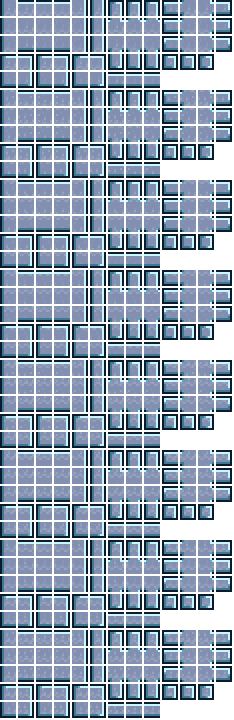
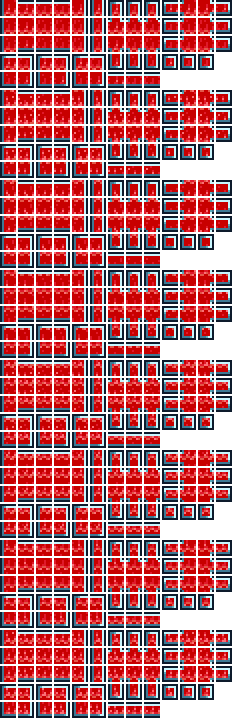
walls

diff --git a/ModdedWaterfalls.cs b/ModdedWaterfalls.cs
@@ -9,6 +9,7 @@ using System.Linq;
 using System.Reflection;
 using Terraria;
 using Terraria.GameContent;
+using Terraria.GameContent.Creative;
 using Terraria.Graphics.Capture;
 using Terraria.Graphics.Shaders;
 using Terraria.ID;
@@ -21,16 +22,29 @@ namespace ModdedWaterfalls {
 		static MethodInfo submitLoadedContent;
 		internal static Dictionary<int, WaterfallBlock> blocksByStyle = new();
 		internal static Dictionary<int, WaterfallItem> itemsByStyle = new();
+		internal static Dictionary<int, WaterfallWall> wallsByStyle = new();
+		internal static Dictionary<int, WaterfallWallItem> wallItemsByStyle = new();
 		static MiscShaderData shader;
 		public static Asset<Texture2D> blockTexture;
 		public static Asset<Texture2D> itemTexture;
+
+		public static Asset<Texture2D> wallTexture;
+		public static Asset<Texture2D> wallItemTexture;
 		public static Dictionary<CaptureBiome, string> captureBiomeNames = new();
 		public override void Unload() {
 			blocksByStyle = null;
 			itemsByStyle = null;
-			shader = null;
+
+			wallsByStyle = null;
+			wallItemsByStyle = null;
+
 			blockTexture = null;
 			itemTexture = null;
+
+			wallTexture = null;
+			wallItemTexture = null;
+
+			shader = null;
 			captureBiomeNames = null;
 		}
 		public override void Load() {
@@ -54,8 +68,10 @@ namespace ModdedWaterfalls {
 			GameShaders.Misc["WaterfallGenerator"] = shader;
 			blockTexture = Assets.Request<Texture2D>("Waterfall_Block_Map");
 			itemTexture = Assets.Request<Texture2D>("Waterfall_Item_Map");
+			wallTexture = Assets.Request<Texture2D>("Waterfall_Wall_Map");
+			wallItemTexture = Assets.Request<Texture2D>("Waterfall_Wall_Item_Map");
 		}
-		public static Asset<Texture2D> GenerateTexture(string name, Texture2D baseTexture, int frames, Asset<Texture2D> palette) {
+		public static Asset<Texture2D> GenerateTexture(string name, Texture2D baseTexture, Asset<Texture2D> palette) {
 			Asset<Texture2D> asset = (Asset<Texture2D>)assetCtor.Invoke(new object[] { name });
 			RenderTarget2D target = new(Main.instance.GraphicsDevice, baseTexture.Width, baseTexture.Height);
 			shader.UseImage1(palette);
@@ -94,10 +110,17 @@ namespace ModdedWaterfalls {
 	}
 	public class ModWaterfallSystem : ModSystem {
 		public static RecipeGroup nonVanillaWaterfalls;
+		public static RecipeGroup nonVanillaWaterWalls;
 		public override void AddRecipeGroups() {
 			RecipeGroup.RegisterGroup("NonVanillaWaterfalls",
 				nonVanillaWaterfalls = new RecipeGroup(
 					() => Language.GetOrRegister($"Mods.{nameof(ModdedWaterfalls)}.WaterfallRecipeGroup").Value,
+					ModdedWaterfalls.itemsByStyle.Values.First().Type
+				)
+			);
+			RecipeGroup.RegisterGroup("NonVanillaWaterWalls",
+				nonVanillaWaterWalls = new RecipeGroup(
+					() => Language.GetOrRegister($"Mods.{nameof(ModdedWaterfalls)}.WaterWallRecipeGroup").Value,
 					ModdedWaterfalls.itemsByStyle.Values.First().Type
 				)
 			);
@@ -106,9 +129,13 @@ namespace ModdedWaterfalls {
 			Recipe.Create(ItemID.WaterfallBlock)
 			.AddRecipeGroup(nonVanillaWaterfalls)
 			.Register();
+			Recipe.Create(ItemID.WaterfallWall)
+			.AddRecipeGroup(nonVanillaWaterWalls)
+			.Register();
 		}
 		public override void Unload() {
 			nonVanillaWaterfalls = null;
+			nonVanillaWaterWalls = null;
 		}
 	}
 	[Autoload(false)]
@@ -122,17 +149,19 @@ namespace ModdedWaterfalls {
 		}
 		public override void Load() {
 			Mod.AddContent(new WaterfallItem(style));
+			Mod.AddContent(new WaterfallWall(style));
 		}
 		public override void SetStaticDefaults() {
 			Main.tileSolid[Type] = true;
 			Main.tileBlockLight[Type] = true;
+			HitSound = SoundID.Shatter;
 			if (Main.dedServ) return;
-			TextureAssets.Tile[Type].Wait();
 			TextureAssets.Liquid[style].Wait();
 			Main.QueueMainThreadAction(GenerateTexture);
 		}
 		void GenerateTexture() {
-			TextureAssets.Tile[Type] = ModdedWaterfalls.GenerateTexture(Name, ModdedWaterfalls.blockTexture.Value, 8, TextureAssets.Liquid[style]);
+			ModdedWaterfalls.blockTexture.Wait();
+			TextureAssets.Tile[Type] = ModdedWaterfalls.GenerateTexture(Name, ModdedWaterfalls.blockTexture.Value, TextureAssets.Liquid[style]);
 		}
 		public override void AnimateIndividualTile(int type, int i, int j, ref int frameXOffset, ref int frameYOffset) {
 			frameYOffset = 90 * Main.tileFrame[TileID.Waterfall];
@@ -168,12 +197,12 @@ namespace ModdedWaterfalls {
 		}
 		public override void SetStaticDefaults() {
 			if (Main.dedServ) return;
-			TextureAssets.Item[Type].Wait();
 			TextureAssets.Liquid[style].Wait();
 			Main.QueueMainThreadAction(GenerateTexture);
 		}
 		void GenerateTexture() {
-			TextureAssets.Item[Type] = ModdedWaterfalls.GenerateTexture(Name, ModdedWaterfalls.itemTexture.Value, 1, TextureAssets.Liquid[style]);
+			ModdedWaterfalls.itemTexture.Wait();
+			TextureAssets.Item[Type] = ModdedWaterfalls.GenerateTexture(Name, ModdedWaterfalls.itemTexture.Value, TextureAssets.Liquid[style]);
 		}
 		public override void SetDefaults() {
 			Item.DefaultToPlaceableTile(ModdedWaterfalls.blocksByStyle[style].Type);
@@ -184,6 +213,15 @@ namespace ModdedWaterfalls {
 			.AddIngredient(ItemID.WaterfallBlock)
 			.AddCondition(Language.GetOrRegister($"Mods.{nameof(ModdedWaterfalls)}.RecipeCondition"), () => Main.waterStyle == style)
 			.Register();
+		}
+		public override void OnResearched(bool fullyResearched) {
+			if (CreativeItemSacrificesCatalog.Instance.SacrificeCountNeededByItemId.TryGetValue(ItemID.WaterfallBlock, out int needed)) {
+				ItemsSacrificedUnlocksTracker sacrificeTracker = Main.LocalPlayer.creativeTracker.ItemSacrifices;
+				if (sacrificeTracker.GetSacrificeCount(ItemID.WaterfallBlock) < needed) {
+					sacrificeTracker.SetSacrificeCountDirectly(ContentSamples.ItemPersistentIdsByNetIds[Item.netID], 0);
+					sacrificeTracker.RegisterItemSacrifice(ItemID.WaterfallBlock, 1);
+				}
+			}
 		}
 		/*bool lastShimmering = false;
 		public override void HoldItem(Player player) {
@@ -197,5 +235,86 @@ namespace ModdedWaterfalls {
 				lastShimmering = false;
 			}
 		}*/
+	}
+	[Autoload(false)]
+	public class WaterfallWall : ModWall {
+		public override string Texture => nameof(ModdedWaterfalls) + "/Waterfall_Wall_Map";
+		public override string Name => "Waterfall_Wall_Style_" + ModdedWaterfalls.GetStyleName(style);
+		readonly int style;
+		public WaterfallWall(int style) {
+			this.style = style;
+			ModdedWaterfalls.wallsByStyle.Add(style, this);
+		}
+		public override void Load() {
+			Mod.AddContent(new WaterfallWallItem(style));
+		}
+		public override void SetStaticDefaults() {
+			WallID.Sets.BlendType[Type] = Type;
+			Main.wallBlend[Type] = Type;
+			Main.wallHouse[Type] = true;
+			HitSound = SoundID.Shatter;
+			if (Main.dedServ) return;
+			TextureAssets.Liquid[style].Wait();
+			Main.QueueMainThreadAction(GenerateTexture);
+		}
+		void GenerateTexture() {
+			ModdedWaterfalls.wallTexture.Wait();
+			TextureAssets.Wall[Type] = ModdedWaterfalls.GenerateTexture(Name, ModdedWaterfalls.wallTexture.Value, TextureAssets.Liquid[style]);
+		}
+		public override void AnimateWall(ref byte frame, ref byte frameCounter) {
+			frame = Main.wallFrame[WallID.Waterfall];
+		}
+	}
+	[Autoload(false)]
+	public class WaterfallWallItem : ModItem {
+		protected override bool CloneNewInstances => true;
+		public override string Texture => nameof(ModdedWaterfalls) + "/Waterfall_Wall_Item_Map";
+		public override string Name => "Waterfall_Wall_Item_Style_" + ModdedWaterfalls.GetStyleName(style);
+		public override LocalizedText DisplayName => Language.GetOrRegister(
+			$"Mods.{nameof(ModdedWaterfalls)}.WaterfallWallItem_{ModdedWaterfalls.GetStyleName(style)}",
+			() => $"{ModdedWaterfalls.GetStyleName(style)} Waterfall Wall"
+		);
+		public override LocalizedText Tooltip => LocalizedText.Empty;
+		readonly int style;
+		public WaterfallWallItem(int style) {
+			this.style = style;
+			ModdedWaterfalls.wallItemsByStyle.Add(style, this);
+		}
+		public override void SetStaticDefaults() {
+			if (Main.dedServ) return;
+			TextureAssets.Liquid[style].Wait();
+			Main.QueueMainThreadAction(GenerateTexture);
+		}
+		void GenerateTexture() {
+			ModdedWaterfalls.wallItemTexture.Wait();
+			TextureAssets.Item[Type] = ModdedWaterfalls.GenerateTexture(Name, ModdedWaterfalls.wallItemTexture.Value, TextureAssets.Liquid[style]);
+		}
+		public override void SetDefaults() {
+			Item.DefaultToPlaceableWall(ModdedWaterfalls.wallsByStyle[style].Type);
+		}
+		public override void AddRecipes() {
+			ModWaterfallSystem.nonVanillaWaterWalls.ValidItems.Add(Type);
+			CreateRecipe()
+			.AddIngredient(ItemID.WaterfallWall)
+			.AddCondition(Language.GetOrRegister($"Mods.{nameof(ModdedWaterfalls)}.RecipeCondition"), () => Main.waterStyle == style)
+			.Register();
+
+			CreateRecipe(4)
+			.AddIngredient(ModdedWaterfalls.itemsByStyle[style].Type)
+			.Register();
+
+			Recipe.Create(ModdedWaterfalls.itemsByStyle[style].Type)
+			.AddIngredient(Type, 4)
+			.Register();
+		}
+		public override void OnResearched(bool fullyResearched) {
+			if (CreativeItemSacrificesCatalog.Instance.SacrificeCountNeededByItemId.TryGetValue(ItemID.WaterfallWall, out int needed)) {
+				ItemsSacrificedUnlocksTracker sacrificeTracker = Main.LocalPlayer.creativeTracker.ItemSacrifices;
+				if (sacrificeTracker.GetSacrificeCount(ItemID.WaterfallWall) < needed) {
+					sacrificeTracker.SetSacrificeCountDirectly(ContentSamples.ItemPersistentIdsByNetIds[Item.netID], 0);
+					sacrificeTracker.RegisterItemSacrifice(ItemID.WaterfallWall, 1);
+				}
+			}
+		}
 	}
 }
